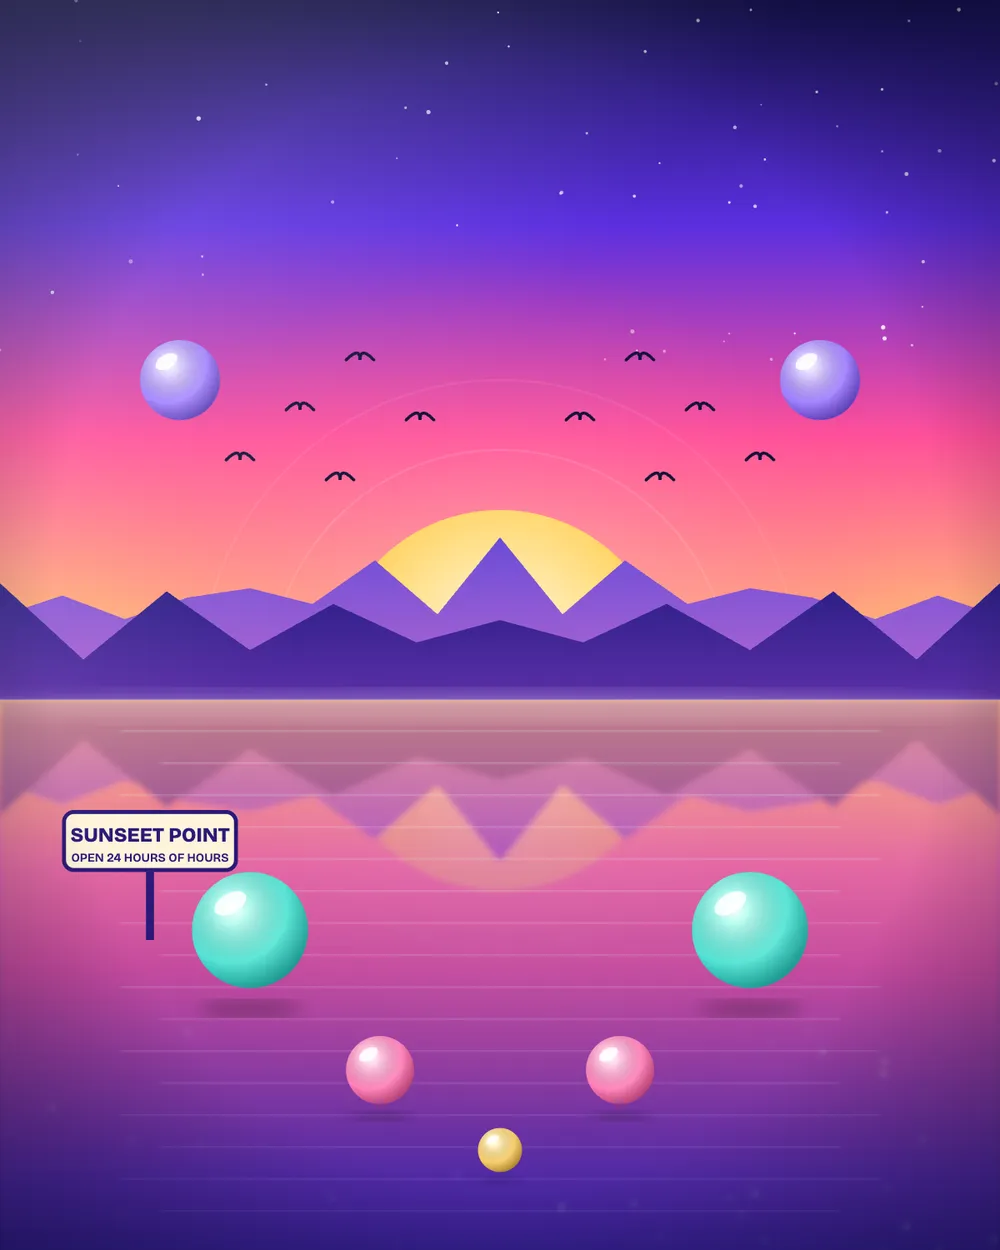
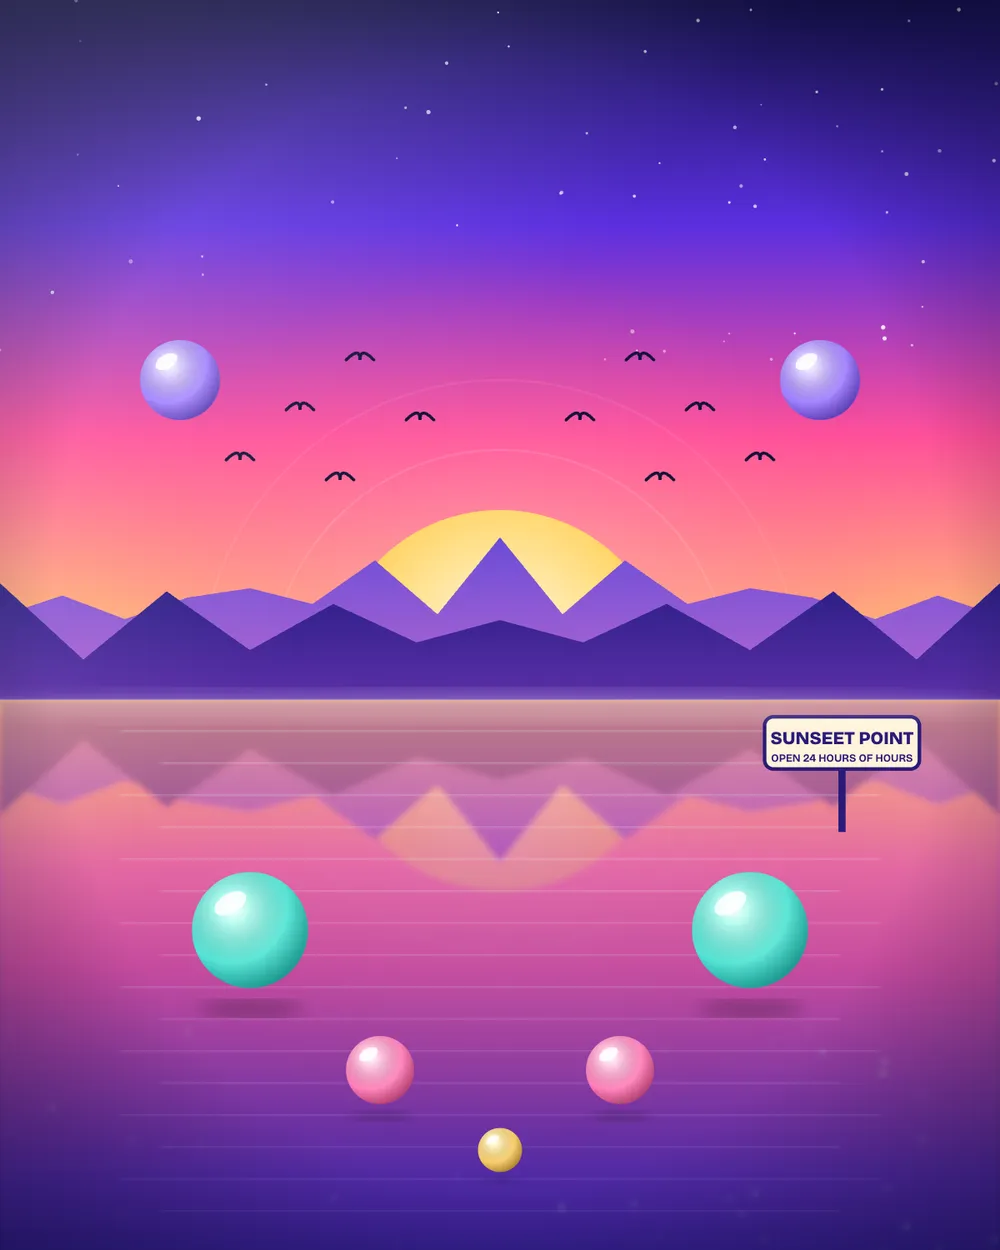
Fix cover legibility and make the view counter plausible
Move the sign in the artwork clear of the caption, add a text shadow and a stronger
scrim, and start the view counter at a formatted number that ticks up and holds still
under reduced motion.

Changed region(s): [[0.062, 0.624, 0.248, 0.7488], [0.744, 0.5616, 0.93, 0.6552]]

diff --git a/site/src/scripts/system.ts b/site/src/scripts/system.ts
@@ -154,14 +154,28 @@ export function view(workId: string): number {
 }
 export function viewedCount(workId: string): number { return read().viewed[workId] ?? 0; }
 
+let tick = 0;
+const fmt = (n: number) => String(Math.round(n)).replace(/\B(?=(\d{3})+(?!\d))/g, ",");
+/** Shows each staged view counter as its base plus this reader's own views plus the slow tick. */
 export function bindViewed() {
   document.querySelectorAll<HTMLElement>("[data-viewed]").forEach((el) => {
-    const n = viewedCount(el.dataset.viewed!);
-    el.textContent = `Viewed ${pad(n)} ${n === 1 ? "time" : "times"}`;
+    const base = Number(el.dataset.base ?? 0);
+    el.textContent = `Viewed ${fmt(base + viewedCount(el.dataset.viewed!) + tick)} times`;
   });
+}
+// The counters tick up on their own, slowly, unless motion is reduced.
+let ticking = false;
+function startTick() {
+  if (ticking) return;
+  ticking = true;
+  const go = () => {
+    window.setTimeout(() => { if (!reducedMotion() && !document.hidden) { tick += 1 + Math.floor(Math.random() * 4); bindViewed(); } go(); }, 1800 + Math.random() * 1800);
+  };
+  go();
 }
 
 export function bindShell() {
+  startTick();
   refreshId();
   bindViewed();
   cart();

diff --git a/site/src/lib/text.js b/site/src/lib/text.js
@@ -25,3 +25,11 @@ export function stagedAverage() {
 export function money(n) {
   return (Math.round(n * 100) / 100).toFixed(2);
 }
+
+/** Staged starting view counts. Plausible, formatted, and the same on the server, with JavaScript off, and under reduced motion. */
+export const VIEW_BASE = { "the-still": 1204331, "the-certificate": 388902 };
+
+/** Thousands separators, fixed to en-US so output never depends on the reader's locale. */
+export function formatCount(n) {
+  return String(Math.round(n)).replace(/\B(?=(\d{3})+(?!\d))/g, ",");
+}

diff --git a/README.md b/README.md
@@ -8,7 +8,7 @@ A deadpan satire of AI content and the attention economy, built as software: a s
 
 - **Problem.** AI makes images nearly free, so publications drift into content that nobody decided to make.
 - **Build.** An Astro site that behaves like the platforms it mocks (boot screen, cookie sheet, rank, ratings that always read 4.2, a gift shop that arrives in front of the gold). Beside it, a Python pipeline that estimates, caps, approves, and logs every paid generation.
-- **Result.** Lighthouse mobile scores 94 performance and 100 in the other three categories on both the home page and the 3D page, with 0.002 layout shift, 0 ms blocking time, 143 real-browser checks, 146 build gates, and 66 unit tests passing.
+- **Result.** Lighthouse mobile scores 91 and 92 performance and 100 in the other three categories on the home page and the 3D page, with 0.002 layout shift, 0 ms blocking time, 147 real-browser checks, 146 build gates, and 67 unit tests passing.
 
 **Live demo:** https://monsieurgregorio2001-coder.github.io/slop-editorial/ (published by the Pages workflow once the repository is public).
 
@@ -140,12 +140,12 @@ Measured on 14 October 2026 on one laptop, with headless Google Chrome. Treat th
 | Check | Result |
 | --- | --- |
 | Python unit tests (`pipeline/`) | 49 pass |
-| Node unit tests for gate logic and helpers (`site/`) | 17 pass |
-| Real-browser checks in Chrome (`npm run verify`) | 143 pass, 0 fail |
+| Node unit tests for gate logic and helpers (`site/`) | 18 pass |
+| Real-browser checks in Chrome (`npm run verify`) | 147 pass, 0 fail |
 | Axe accessibility, 10 page types in light and dark | 20 runs, 0 violations (WCAG 2.1 A and AA plus best practice) |
 | Site build gates (`npm run check`) | 146 checks pass |
-| Lighthouse, mobile preset, home page | 94 performance, 100 accessibility, 100 best practices, 100 SEO |
-| Lighthouse, mobile preset, `/authenticity/` | 94 performance, 100 accessibility, 100 best practices, 100 SEO |
+| Lighthouse, mobile preset, home page | 91 performance, 100 accessibility, 100 best practices, 100 SEO |
+| Lighthouse, mobile preset, `/authenticity/` | 92 performance, 100 accessibility, 100 best practices, 100 SEO |
 | Largest contentful paint, home and 3D page | 3.0 s and 2.9 s under simulated slow 4G, 0.002 layout shift, 0 ms blocking time |
 | JavaScript shipped | 81 KB gzipped shared, 379 KB gzipped for the lazy 3D chunk, loaded only on `/authenticity/` |
 | Horizontal scroll at 360 px | none on all 10 page types |
